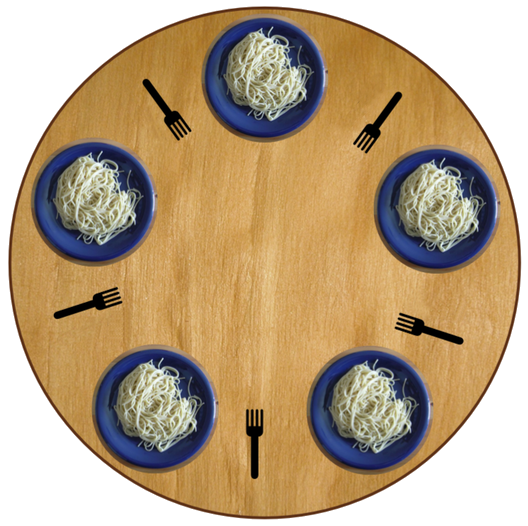
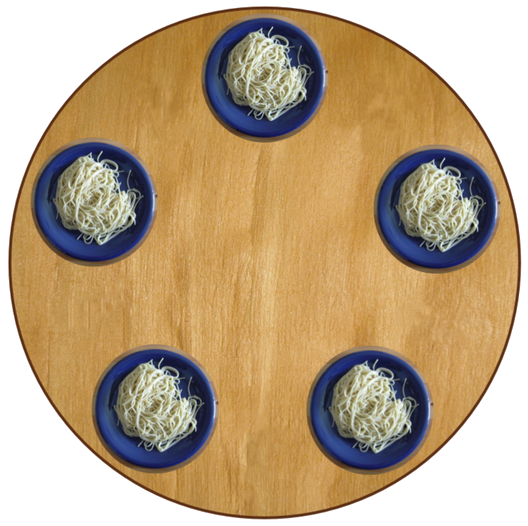
Добавлены отображение вилок и настроена логика зеркального отражения философоф

diff --git a/views/philosopher.py b/views/philosopher.py
@@ -1,17 +1,22 @@
 import numpy
-from PyQt4.QtGui import (QLabel, QPixmap)
-
+from PyQt4.QtGui import (QLabel, QTransform, QPixmap)
+from PyQt4.QtCore import (Qt)
 
 class Philosopher(QLabel):
 	SIZE = 100
 
-	def __init__(self, label, parent, i, mainSize, deskSize):
-		QLabel.__init__(self, label, parent)
+	def __init__(self, parent, i, mainSize, deskSize):
+		QLabel.__init__(self, '', parent)
 		picture = QPixmap('img/philosopher.png')
+
+		if i < 3:
+			transform = QTransform().scale(-1, 1)
+			picture = picture.transformed(transform, Qt.SmoothTransformation)
+
 		self.setPixmap(picture)
 
 		center = mainSize / 2 - self.SIZE / 2
-		dx = numpy.cos(numpy.radians(90 + i * 72)) * (deskSize / 2 + 50)
-		dy = numpy.sin(numpy.radians(90 + i * 72)) * (deskSize / 2 + 50)
+		dx = numpy.cos(numpy.radians(90 + i * 72)) * (deskSize / 2 + self.SIZE / 2)
+		dy = numpy.sin(numpy.radians(90 + i * 72)) * (deskSize / 2 + self.SIZE / 2)
 		self.move(center + dx, center - dy)
 

diff --git a/views/furcula.py b/views/furcula.py
@@ -1,0 +1,26 @@
+import numpy
+from PyQt4.QtGui import (QTransform, QLabel, QPixmap)
+from PyQt4.QtCore import (Qt)
+
+
+class Furcula(QLabel):
+	WIDTH = 15
+	HEIGHT = 45
+
+	def __init__(self, parent, i, mainSize, deskSize):
+		QLabel.__init__(self, parent)
+
+		picture = QPixmap('img/furcula.png')
+		scaledPicture = picture.scaled(self.WIDTH, self.HEIGHT)
+
+		transform = QTransform().rotate(i * (360 - 72))
+		transformPicture = scaledPicture.transformed(transform, Qt.SmoothTransformation)
+
+		self.setPixmap(transformPicture)
+
+		center = mainSize / 2 - self.WIDTH
+		dx = numpy.cos(numpy.radians(i * 72 - 90)) * (deskSize / 3)
+		dy = numpy.sin(numpy.radians(i * 72 - 90)) * (deskSize / 3)
+		self.move(center + dx, center - dy)
+
+

diff --git a/main.py b/main.py
@@ -5,6 +5,7 @@ from PyQt4.QtGui import *
 from PyQt4.QtCore import Qt
 import sys
 from philosopher import Philosopher
+from furcula import Furcula
 
 class MainApp(QWidget):
 
@@ -53,7 +54,9 @@ class MainApp(QWidget):
 
 	def addPhilosophers(self):
 		for i in range(0, 5):
-			Philosopher('', self, i, self.SIZE, self.DESK_SIZE)
+			Philosopher(self, i, self.SIZE, self.DESK_SIZE)
+			Furcula(self, i, self.SIZE, self.DESK_SIZE)
+
 
 if __name__ == '__main__':
 	app = QApplication(sys.argv)
